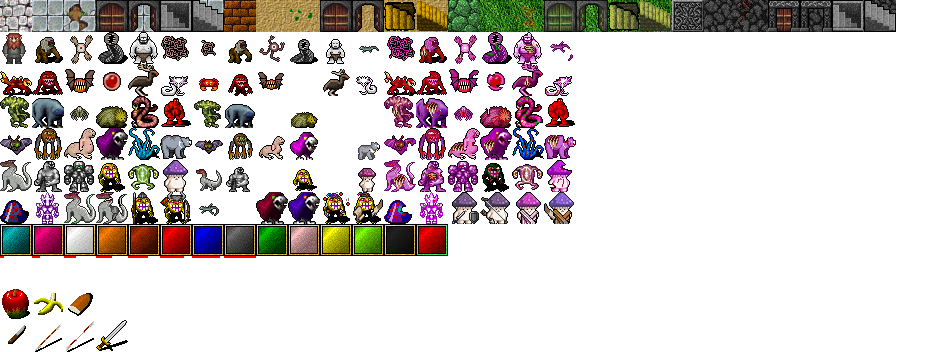
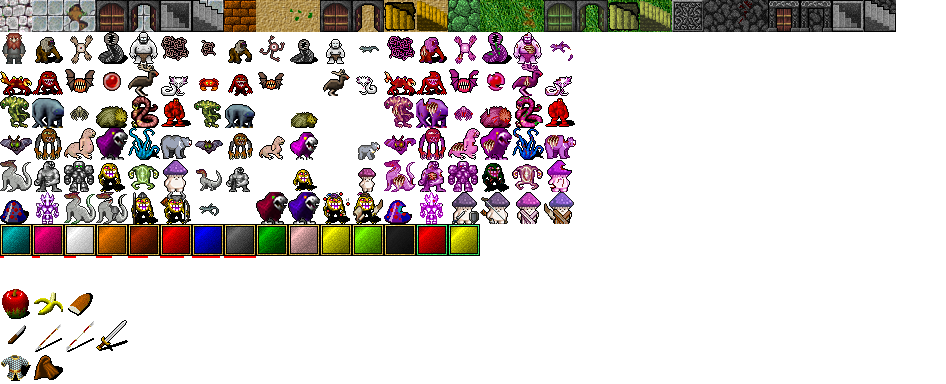
add armor and crit chance, and sample clothes

Changed region(s): [[0.0, 0.0, 0.9503, 1.0]]

diff --git a/assets/item.js b/assets/item.js
@@ -4,7 +4,7 @@ Item = function(properties) {
   properties = properties || {};
   this.name = properties['name'] || "";
   this.options = properties['options'] || {};
-  this.Symbol = properties['Symbol'] || "apple";
+  this.Symbol = properties['Symbol'] || "";
   this.type = properties['type'] || 'other';
 }
 
@@ -30,7 +30,7 @@ Game.chooseItem = function(num) {
   if (itemtype == "food") {
     Game.messages.drawText(1, iterator + 2, "e) Eat");
   }
-  if (itemtype == "weapon") {
+  if (itemtype == "weapon" || itemtype == "armor" || itemtype == "amulet") {
     if (Game.inventory[num].options.wielded == "no") {
       Game.messages.drawText(1, iterator + 2, "w) Wield");
     } else {
@@ -50,7 +50,7 @@ Game.doItem = function(action) {
       Game.messagebox.sendMessage("You cant do this.");
       return;
     }
-    if (Game.inventory[num].options.wielded == "no") {
+    if (Game.inventory[num].options.wielded == "no" && itemtype == "weapon") {
       if (Game.inventory[num].options.size == "twohand") {
         if (typeof Game.player.equipment.righthand !== 'undefined' || typeof Game.player.equipment.righthand !== 'undefined') {
           Game.messagebox.sendMessage("You hands are busy.");
@@ -71,13 +71,25 @@ Game.doItem = function(action) {
       Game.doItemOptions();
       Game.inventory[num].options.wielded = "yes";
       Game.messagebox.sendMessage("You wielded the " + Game.inventory[num].name + ".");
+    } else if (Game.inventory[num].options.wielded == "no" && itemtype == "armor") {
+      if (typeof Game.player.equipment.body === 'undefined') {
+        Game.player.equipment.body = Game.inventory[num];
+        Game.doItemOptions();
+        Game.inventory[num].options.wielded = "yes";
+        Game.messagebox.sendMessage("You wielded the " + Game.inventory[num].name + ".");
+      } else {
+        Game.messagebox.sendMessage("You already have armor.");
+        return;
+      }
     } else {
       Game.doItemOptions();
       Game.inventory[num].options.wielded = "no";
       if (Game.player.equipment.righthand == Game.inventory[num]) {
         delete Game.player.equipment.righthand;
-      } else {
+      } else if (Game.player.equipment.lefthand == Game.inventory[num]) {
         delete Game.player.equipment.lefthand;
+      } else if (Game.player.equipment.body == Game.inventory[num]) {
+        delete Game.player.equipment.body;
       }
       Game.messagebox.sendMessage("You unwielded the " + Game.inventory[num].name + ".");
     }
@@ -120,20 +132,56 @@ Game.doItemOptions = function() {
   var itemtype = Game.inventory[num].type;
   for (let [key, value] of Object.entries(Game.inventory[num].options)) {
     if (Game.inventory[num].options.wielded == "no") {
-      if (key == "minatk") {Game.player.Minatk += value};
-      if (key == "maxatk") {Game.player.Maxatk += value};
-      if (key == "str") {Game.player.Str += value};
-      if (key == "agi") {Game.player.Agi += value};
-      if (key == "con") {Game.player.Con += value};
-      if (key == "int") {Game.player.Int += value};
+      if (key == "minatk") {
+        Game.player.Minatk += value;
+      };
+      if (key == "maxatk") {
+        Game.player.Maxatk += value;
+      };
+      if (key == "str") {
+        Game.player.Str += value;
+      };
+      if (key == "agi") {
+        Game.player.Agi += value;
+      };
+      if (key == "con") {
+        Game.player.Con += value;
+      };
+      if (key == "int") {
+        Game.player.Int += value;
+      };
+      if (key == "armor") {
+        Game.player.Armor += value;
+      };
+      if (key == "crit") {
+        Game.player.Crit += value;
+      };
     }
     if (Game.inventory[num].options.wielded == "yes") {
-      if (key == "minatk") {Game.player.Minatk -= value};
-      if (key == "maxatk") {Game.player.Maxatk -= value};
-      if (key == "str") {Game.player.Str -= value};
-      if (key == "agi") {Game.player.Agi -= value};
-      if (key == "con") {Game.player.Con -= value};
-      if (key == "int") {Game.player.Int -= value};
+      if (key == "minatk") {
+        Game.player.Minatk -= value;
+      };
+      if (key == "maxatk") {
+        Game.player.Maxatk -= value;
+      };
+      if (key == "str") {
+        Game.player.Str -= value;
+      };
+      if (key == "agi") {
+        Game.player.Agi -= value;
+      };
+      if (key == "con") {
+        Game.player.Con -= value;
+      };
+      if (key == "int") {
+        Game.player.Int -= value;
+      };
+      if (key == "armor") {
+        Game.player.Armor -= value;
+      };
+      if (key == "crit") {
+        Game.player.Crit -= value;
+      };
     }
   }
   //new max hp, mana and speed
@@ -178,6 +226,13 @@ Game.drawBar = function() {
           _color = "red";
         } else {
           _color = "redwield";
+        }
+      }
+      if (itemtype == "armor") {
+        if (Game.inventory[i].options.wielded == "no") {
+          _color = "yellow";
+        } else {
+          _color = "yellowwield";
         }
       }
       Game.display.draw(i + Game.screenWidth - 16, Game.screenHeight, [_color + "square", Game.inventory[i].Symbol], ["#0000", "#0000"]);

diff --git a/assets/entity.js b/assets/entity.js
@@ -16,6 +16,8 @@ Entity = function(properties) {
   this.Maxhp = properties['Maxhp'] || 10;
   this.Minatk = properties['Minatk'] || 1;
   this.Maxatk = properties['Maxatk'] || 4;
+  this.Armor = properties['Armor'] || 1;
+  this.Crit = properties['Crit'] || 5;
   this.getSpeed = function() {
     return this.Speed;
   }
@@ -97,9 +99,15 @@ Entity.prototype.doDie = function() {
 }
 
 Entity.prototype.doAttack = function() {
-  let dmg = Math.floor(Math.random() * (this.Maxatk - this.Minatk)) + this.Minatk;
+  let dmg = Math.floor(Math.random() * (this.Maxatk - this.Minatk)) + this.Minatk - Game.player.Armor - Math.floor(Game.player.Agi/4);
+  dmg = Math.max(1, dmg);
+  let _color="%c{}";
+  if (Math.random()*100 < this.Crit) {
+    dmg = dmg * 2;
+    _color = "%c{lime}"
+  }
   Game.player.Hp -= dmg;
-  Game.messagebox.sendMessage("The " + this.name + " hits you for " + dmg + " damage.")
+  Game.messagebox.sendMessage("The " + this.name + " hits you for " + _color + dmg + " %c{}damage.");
   Game.drawAll();
 }
 
@@ -167,8 +175,10 @@ Player = function(properties) {
   this.Int = 5;
   this.Agi = 5;
   this.Con = 5;
-  this.Minatk = properties['Minatk'] || 0;
-  this.Maxatk = properties['Maxatk'] || 0;
+  this.Minatk = 0;
+  this.Maxatk = 0;
+  this.Armor = 0;
+  this.Crit = 0;
   this.Maxhp = this.Con * 4;
   this.Speed = 90 + this.Agi * 2;
   this.Maxmana = this.Int * 4;
@@ -188,7 +198,7 @@ Player = function(properties) {
 Player.prototype.act = function() {
   Game.engine.lock();
   if (Game.player.Hp < 1 || Game.player.Agi < 1 || Game.player.Str < 1 || Game.player.Int < 1) {
-    Game.messagebox.sendMessage("You died. Press %c{red}F5%c{} to start new game.");
+    Game.messagebox.sendMessage("Congratulations, you have died! Press %c{red}F5%c{} to start new game.");
     Game.drawAll();
     return;
   } 
@@ -219,7 +229,8 @@ Player.prototype.Draw = function() {
   Game.messages.drawText(xoffset, 2, "HP: %c{red}" + Game.player.Hp + "/" + Game.player.Maxhp + " %c{}Mana: %c{blue}" + Game.player.Mana + "/" + Game.player.Maxmana);
   Game.messages.drawText(xoffset, 3, "Str: %c{gold}" + Game.player.Str + " %c{}Int: %c{turquoise}" + Game.player.Int);
   Game.messages.drawText(xoffset, 4, "Con: %c{yellowgreen}" + Game.player.Con + " %c{}Agi: %c{wheat}" + Game.player.Agi);
-  Game.messages.drawText(xoffset, 5, "Speed: %c{lightblue}" + this.getSpeed() + "% %c{}Atk: "+ (Game.player.Str + Game.player.Minatk)+" - " + (Game.player.Str*2 + Game.player.Maxatk));
+  Game.messages.drawText(xoffset, 5, "Armor: %c{coral}" + (Math.floor(Game.player.Agi /4) + Game.player.Armor)+" %c{}Speed: %c{lightblue}" + this.getSpeed() + "%");
+  Game.messages.drawText(xoffset, 6, "Atk: %c{red}"+ (Game.player.Str + Game.player.Minatk)+" - " + (Game.player.Str*2 + Game.player.Maxatk) + " %c{}Crit: %c{lime}" + Math.min(95,(Game.player.Crit+Math.floor(Game.player.Agi/2)+2)) + "%");
   Game.messages.drawText(xoffset, 11, "Lvl: " + Game.player.Depth + " x: " + Game.player.x + " y: " + Game.player.y);
   var item = null;
   if (typeof Game.player.equipment.righthand === 'undefined') {
@@ -227,33 +238,40 @@ Player.prototype.Draw = function() {
   } else {
     item = Game.player.equipment.righthand.name;
   }
-  Game.messages.drawText(xoffset, 6, "R. hand: " + item);
+  Game.messages.drawText(xoffset, 7, "R. hand: " + item);
   if (typeof Game.player.equipment.lefthand === 'undefined') {
     item = "-";
   } else {
     item = Game.player.equipment.lefthand.name;
   }
-  Game.messages.drawText(xoffset, 7, "L. hand: " + item);
+  Game.messages.drawText(xoffset, 8, "L. hand: " + item);
   if (typeof Game.player.equipment.body === 'undefined') {
     item = "-";
   } else {
     item = Game.player.equipment.body.name;
   }
-  Game.messages.drawText(xoffset, 8, "Body:    " + item);
+  Game.messages.drawText(xoffset, 9, "Body:    " + item);
   if (typeof Game.player.equipment.neck === 'undefined') {
     item = "-";
   } else {
     item = Game.player.equipment.neck.name;
   }
-  Game.messages.drawText(xoffset, 9, "Neck:    " + item);
+  Game.messages.drawText(xoffset, 10, "Neck:    " + item);
 }
 
 Player.prototype.doAttack = function(x, y) {
   for (let i = 0; i < Game.entity.length; i++) {
     if (Game.entity[i].x == x && Game.entity[i].y == y) {
-      let dmg = Math.floor(Math.random() * (Game.player.Str + Game.player.Maxatk - Game.player.Minatk)) + Game.player.Str + Game.player.Minatk;
+      let dmg = Math.floor(Math.random() * (Game.player.Str + Game.player.Maxatk - Game.player.Minatk)) + Game.player.Str + Game.player.Minatk - Game.entity[i].Armor;
+      dmg = Math.max(1, dmg);
+      let _color="%c{}";
+      let _crit = Math.min(95,(Game.player.Crit+Math.floor(Game.player.Agi/2)+2));
+      if (Math.random()*100 < _crit) {
+        dmg = dmg * 2;
+        _color = "%c{lime}"
+      }
       Game.entity[i].Hp -= dmg;
-      Game.messagebox.sendMessage("You hits " + Game.entity[i].name + " for " + dmg + " damage.")
+      Game.messagebox.sendMessage("You hits " + Game.entity[i].name + " for "+_color + dmg + " %c{}damage.")
       Game.entity[i].doDie();
       Game.drawMap();
       Game.drawEntities();

diff --git a/assets/tilemap.js b/assets/tilemap.js
@@ -52,6 +52,8 @@ var gameTilemap = {
   "redwieldsquare": [416,224],
   "blanksquare": [384,224],
   "greensquare": [352,224],
+  "yellowsquare": [320,224],
+  "yellowwieldsquare": [448,224],
 //food
   "apple": [0,288],
   "banana": [32,288],
@@ -60,5 +62,8 @@ var gameTilemap = {
   "knife": [0,320],
   "spear": [32,320],
   "glefa": [64,320],
-  "longsword": [96,320]
+  "longsword": [96,320],
+//armor
+  "simplecloak": [32,352],
+  "chainmail": [0,352]
 };

diff --git a/assets/items.js b/assets/items.js
@@ -86,3 +86,25 @@ Game.ItemRepository.define('longsword', {
     wielded: "no"
   }
 });
+
+//armor
+Game.ItemRepository.define('simplecloak', {
+  name: "simple cloak",
+  Symbol: "simplecloak",
+  type: "armor",
+  options: {
+    armor: 0,
+    wielded: "no"
+  }
+});
+
+Game.ItemRepository.define('chainmail', {
+  name: "chainmail",
+  Symbol: "chainmail",
+  type: "armor",
+  options: {
+    armor: 1,
+    agi: -1,
+    wielded: "no"
+  }
+});

diff --git a/assets/index.js b/assets/index.js
@@ -75,6 +75,10 @@ var Game = {
     Game.inventory.push(newfood);
     newfood = Game.ItemRepository.create("longsword");
     Game.inventory.push(newfood);
+    newfood = Game.ItemRepository.create("simplecloak");
+    Game.inventory.push(newfood);
+    newfood = Game.ItemRepository.create("chainmail");
+    Game.inventory.push(newfood);
     this.drawAll();
     this.engine = new ROT.Engine(scheduler);
     this.engine.start();
